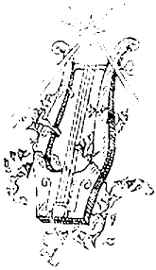
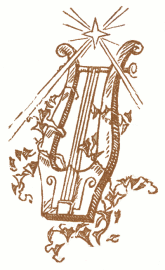
PPV feedback: Specify image dimensions, and use higher-quality scans

diff --git a/gedichte.html b/gedichte.html
@@ -126,7 +126,7 @@ Textes an den Anfang verschoben.</p>
 <h1 class="center">GEDICHTE</h1>
 
 <div class="figcenter" style="margin-top: 4em;">
-<img src="images/front.png" alt="" />
+<img src="images/front.png" alt="" width="165" height="270" />
 </div>
 
 <div style="margin: 4em auto;">
@@ -2777,7 +2777,7 @@ Vernehmet nun aus schattenhaftem Munde!<br />
 
 
 <div class="center" style="margin: 8em auto;">
-  <img src="images/back.png" alt=""/>
+  <img src="images/back.png" alt="" width="64" height="96" />
 <p class="center" style="margin: 2em auto;">
 Gedruckt bei<br />
 Poeschel &amp; Trepte<br />
